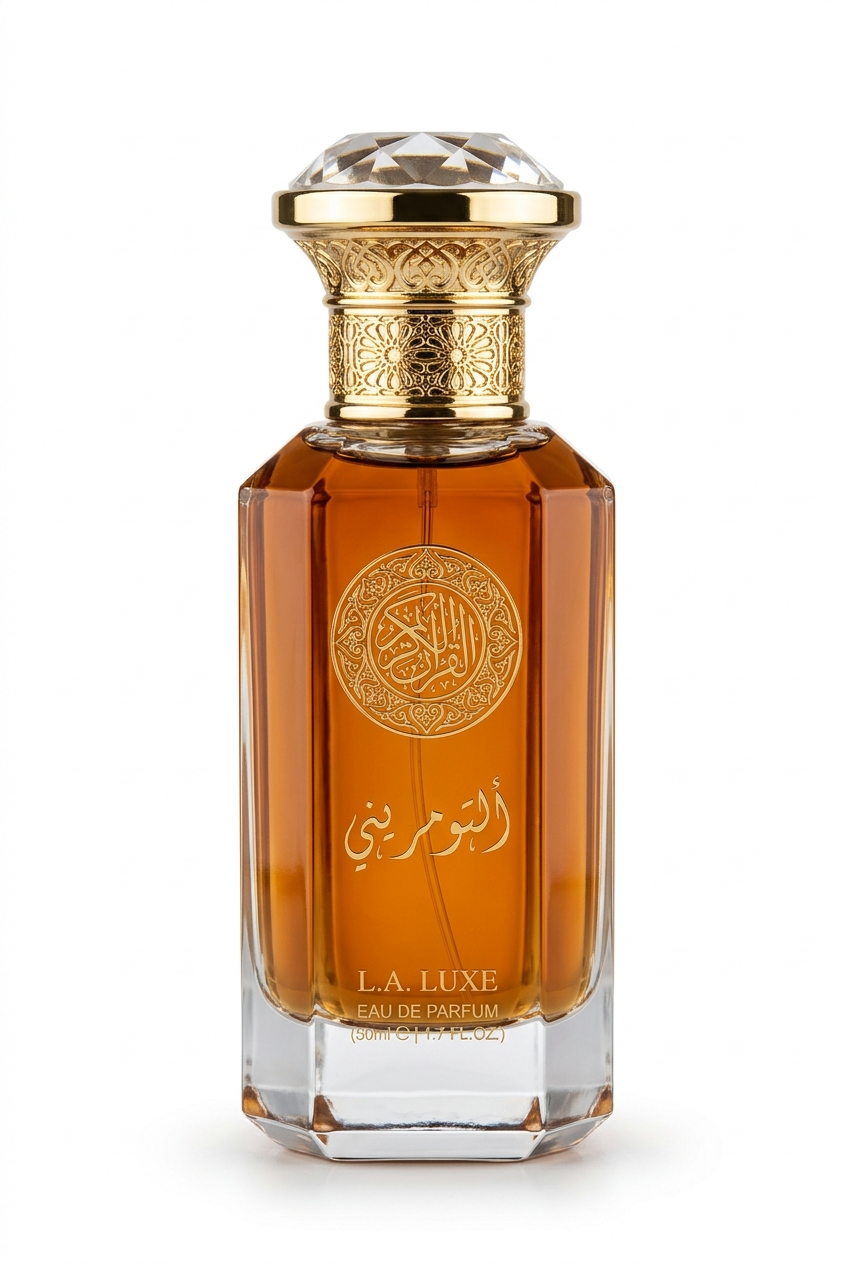
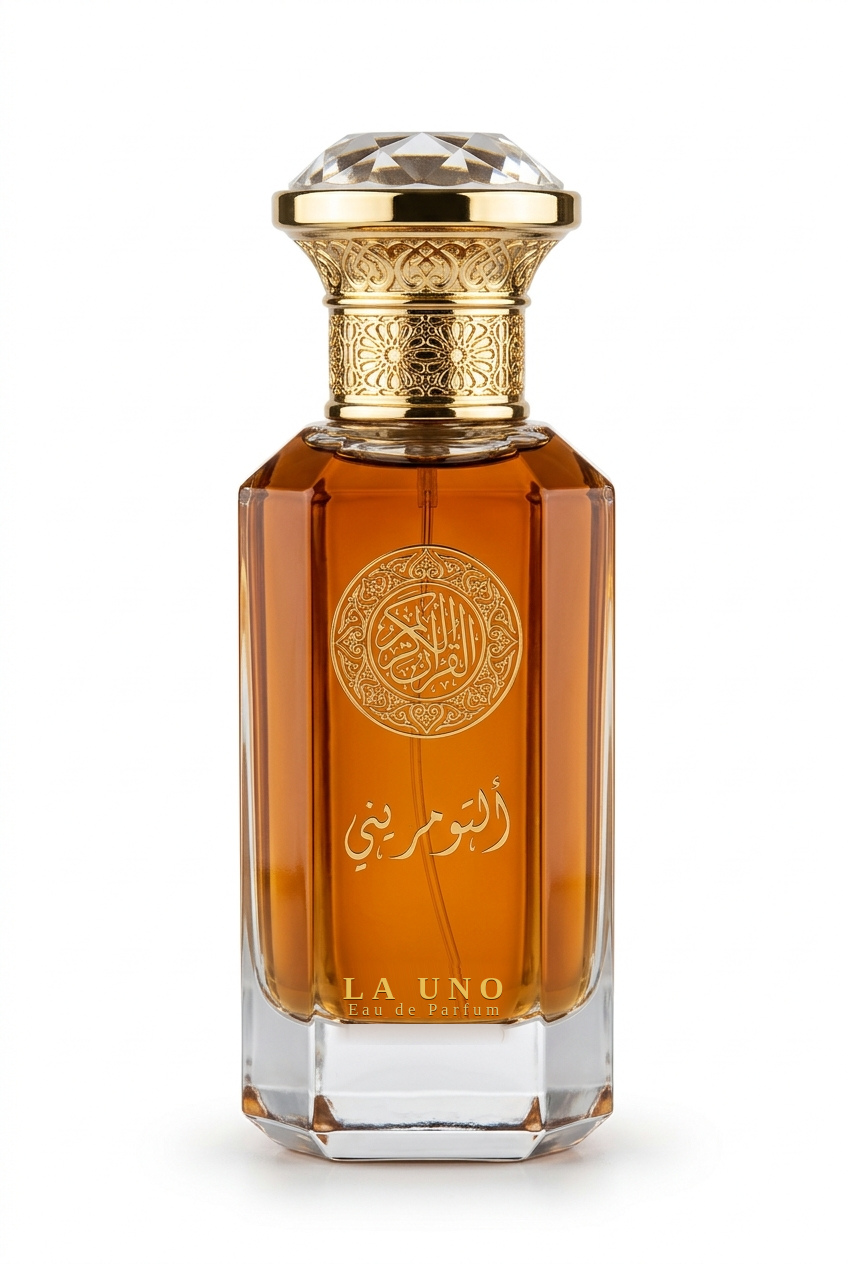
feat: update image asset and sync inventory
Replace la-uno.jpg with the final version, invalidate the browser cache, and update the stock inventory data.

Changed region(s): [[0.3986, 0.7405, 0.6132, 0.8331]]

diff --git a/index.html b/index.html
@@ -261,7 +261,7 @@
 
     <!-- Preload all 12 perfume catalog images directly into browser cache -->
     <link rel="preload" as="image" href="/images/perfumes/givenchy-gentleman.jpg" fetchpriority="high" />
-    <link rel="preload" as="image" href="/images/perfumes/la-uno.jpg" fetchpriority="high" />
+    <link rel="preload" as="image" href="/images/perfumes/la-uno.jpg?v=final" fetchpriority="high" />
     <link rel="preload" as="image" href="/images/perfumes/for-him-black.jpg" fetchpriority="high" />
     <link rel="preload" as="image" href="/images/perfumes/seoul.jpg" fetchpriority="high" />
     <link rel="preload" as="image" href="/images/perfumes/intense-dark.jpg" fetchpriority="high" />

diff --git a/src/main.tsx b/src/main.tsx
@@ -6,7 +6,7 @@ import './index.css';
 // Pre-warm and decode all perfume assets into GPU/browser cache immediately
 const ALL_PERFUME_IMAGES = [
   "/images/perfumes/givenchy-gentleman.jpg",
-  "/images/perfumes/la-uno.jpg",
+  "/images/perfumes/la-uno.jpg?v=final",
   "/images/perfumes/for-him-black.jpg",
   "/images/perfumes/seoul.jpg",
   "/images/perfumes/intense-dark.jpg",

diff --git a/src/types.ts b/src/types.ts
@@ -96,7 +96,7 @@ export const CATALOG_DATA: Fragrance[] = [
     },
     color: "from-stone-700 to-stone-900",
     glassStyle: "shadow-stone-800/50",
-    image: "/images/perfumes/la-uno.jpg"
+    image: "/images/perfumes/la-uno.jpg?v=final"
   },
   {
     id: "zara-for-him-black",
